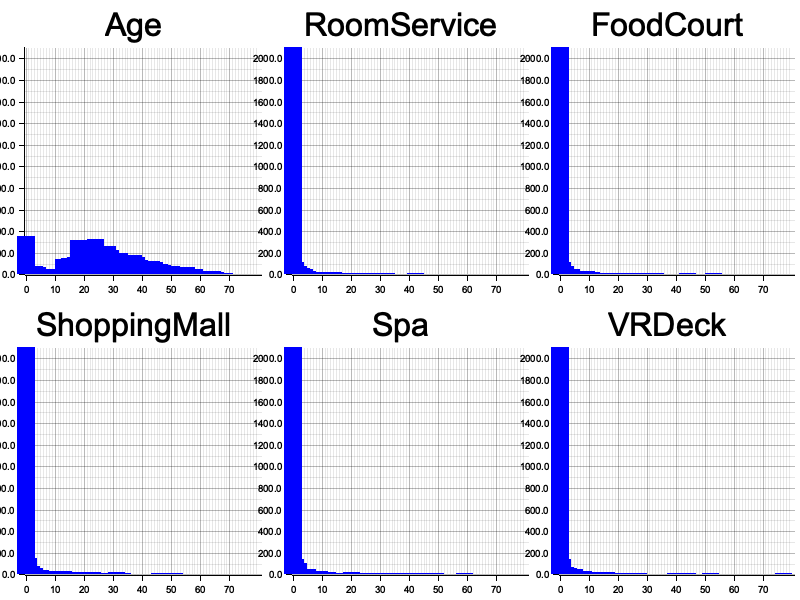
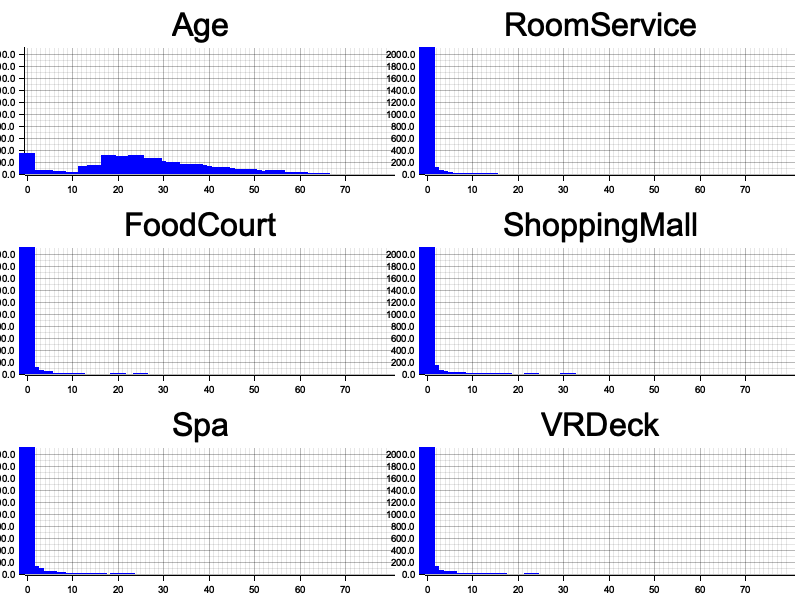
processing

Changed region(s): [[0.0, 0.0, 1.0, 0.99]]

diff --git a/src/spaceship_titanic/spaceship_titanic.rs b/src/spaceship_titanic/spaceship_titanic.rs
@@ -56,14 +56,12 @@ pub fn main(){
     ("ShoppingMall", &shopping_mall_data),
     ("Spa", &spa_data),
     ("VRDeck", &vr_deck_data)];
-    let drawing_areas = root.split_evenly((2, 3));
+    let drawing_areas = root.split_evenly((3, 2));
     for (drawing_area, idx) in drawing_areas.iter().zip(1..) {
         let mut chart_builder = ChartBuilder::on(&drawing_area);
     chart_builder.margin(5).set_left_and_bottom_label_area_size(20).caption(format!("{}",data[idx as usize -1].0), ("sans-serif", 40));
-
     let mut chart_context = chart_builder.build_cartesian_2d((0u32..80u32).step(1).into_segmented(), (0f64..2100f64).step(100f64)).unwrap();
     chart_context.configure_mesh().draw().unwrap();
-    println!("{:?}",age_data);
     chart_context.draw_series(Histogram::vertical(&chart_context).style(BLUE.filled()).margin(10)
     .data(data[idx -1].1.iter().map(|v | (*v as u32,1f64 )))
    ).unwrap();
@@ -71,16 +69,30 @@ pub fn main(){
     /*===================히스토그램 그리기========================= */
 
     /*===================processing========================= */
-   let  train_df:&mut DataFrame= train_df.with_column(  train_df.column("CryoSleep").unwrap().cast(&DataType::Float64).unwrap().fill_null(FillNullStrategy::Zero).unwrap()).unwrap();
-   println!("범주형 데이터 확인:{:?}",train_df.describe(Some(&[0f64])).unwrap());
-   println!("수치형 데이터 확인:{:?}",train_df.describe(None).unwrap());
-   println!("{}",train_df.null_count());
-    
-     /*Vip */
-     println!("{}",train_df.column("VIP").unwrap().null_count());
-    let vip_serice= train_df.select(["VIP"]).unwrap();
-    println!("{}",train_df.column("Age").unwrap());
-    println!("{:?}",train_df.select(["Age"]).unwrap().describe(Some(&[0f64])));
+//    let  train_df:&mut DataFrame= train_df.with_column(  train_df.column("CryoSleep").unwrap().cast(&DataType::Float64).unwrap().fill_null(FillNullStrategy::Zero).unwrap()).unwrap();
+//    let  train_df:&mut DataFrame= train_df.with_column(  train_df.column("VIP").unwrap().cast(&DataType::Float64).unwrap().fill_null(FillNullStrategy::Zero).unwrap()).unwrap();
+//    let  train_df:&mut DataFrame= train_df.with_column(  train_df.column("Cabin").unwrap().fill_null(FillNullStrategy::Forward(Some(0))).unwrap()).unwrap();
+//    let  train_df:&mut DataFrame= train_df.with_column(  train_df.column("HomePlanet").unwrap().fill_null(FillNullStrategy::Forward(Some(0))).unwrap()).unwrap();
+//    let  train_df:&mut DataFrame= train_df.with_column(  train_df.column("HomePlanet").unwrap().fill_null(FillNullStrategy::Forward(Some(0))).unwrap()).unwrap();
+//    let train_df= train_df.with_column(column)
+let train_df = train_df
+    .clone()
+    .lazy()
+    .with_columns([
+        col("CryoSleep").cast(DataType::Float64).fill_null(0),
+        col("VIP").cast(DataType::Float64).fill_null(0),
+        col("Cabin").fill_null(lit("G/734/S")),
+        col("HomePlanet").fill_null(lit("Eath")),
+        col("Destination").fill_null(lit("TRAPPIST-1e")),
+        col("ShoppingMall").fill_null(col("ShoppingMall").median()),
+        col("VRDeck").fill_null(col("VRDeck").median()),
+        col("FoodCourt").fill_null(col("FoodCourt").median()),
+        col("Spa").fill_null(col("Spa").median()),
+        col("RoomService").fill_null(col("RoomService").median()),
+        col("Age").fill_null(col("Age").median()),
+    ])
+    .collect().unwrap();
+println!("{}",train_df.null_count());
 
     /*===================processing========================= */
    
